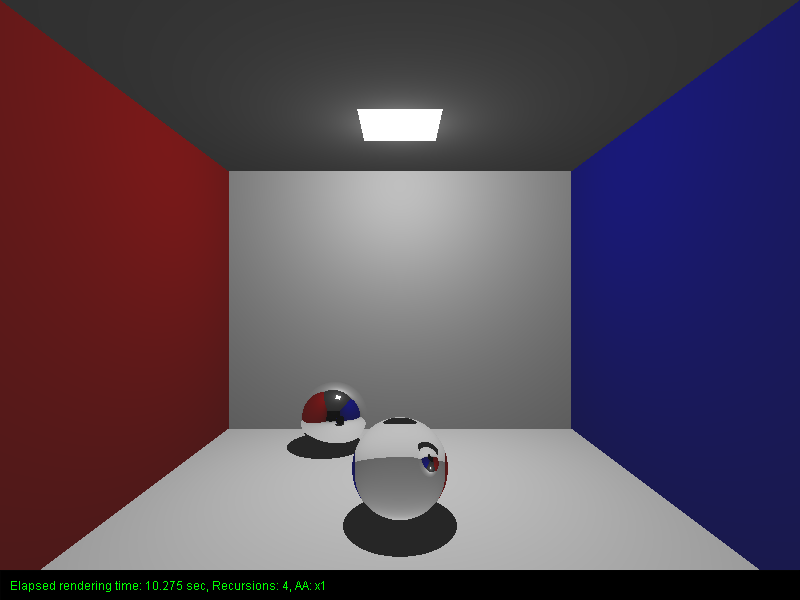
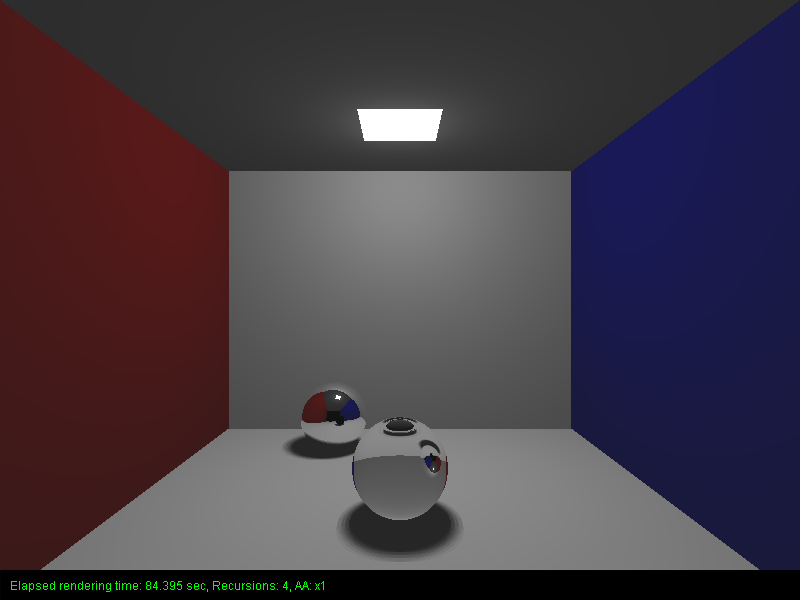
AreaLights + Soft Shadows 1.0

diff --git a/VCG_Raytracer/src/raytracer/Raytracer.java b/VCG_Raytracer/src/raytracer/Raytracer.java
@@ -103,7 +103,6 @@ public class Raytracer {
 
 	public RgbColor calculateColor(Intersection intersection) {
 		// Depending on the material calculate the pixel color
-		RgbColor calculatedColor = null;
 		RgbColor pixelColor = null;
 
 		if (intersection != null && intersection.isHit() && intersection.getShape() != null) {
@@ -117,23 +116,32 @@ public class Raytracer {
 				currentRecursion++;
 				pixelColor = calculateRefraction(intersection);
 			} else {
-				for (Light light : lightList) {
-					Ray lightRay = new Ray(intersection.getIntersectionPoint(), light.getPosition(), light.getPosition().sub(intersection.getIntersectionPoint()).normalize(), 0f);
-					if (!inShadow(lightRay, intersection.getShape(), light)) {
-						calculatedColor = (calculatedColor == null)
-								? shapeMaterial.getColor(light, intersection)
-								: calculatedColor.add(shapeMaterial.getColor(light, intersection));
-					} else {
-						return shapeMaterial.getAmbient();
-					}
-				}
-				RgbColor pixelColorAmbient = shapeMaterial.getAmbient();
-				pixelColor = (calculatedColor != null)
-						? pixelColorAmbient.add(calculatedColor)
-						: pixelColorAmbient;
+				pixelColor = calculateColorAndShadow(intersection);
 			}
 		}
 		currentRecursion = 0;
+		return pixelColor;
+	}
+
+	public RgbColor calculateColorAndShadow(Intersection _intersection) {
+		RgbColor pixelColor;
+		RgbColor calculatedColor = null;
+		Material shapeMaterial = _intersection.getShape().getMaterial();
+
+		for (Light light : lightList) {
+			Ray lightRay = new Ray(_intersection.getIntersectionPoint(), light.getPosition(), light.getPosition().sub(_intersection.getIntersectionPoint()).normalize(), 0f);
+			if (!inShadow(lightRay, light)) {
+				calculatedColor = (calculatedColor == null)
+						? shapeMaterial.getColor(light, _intersection)
+						: calculatedColor.add(shapeMaterial.getColor(light, _intersection));
+			}
+		}
+
+		RgbColor pixelColorAmbient = shapeMaterial.getAmbient();
+		pixelColor = (calculatedColor != null)
+				? pixelColorAmbient.add(calculatedColor)
+				: pixelColorAmbient;
+
 		return pixelColor;
 	}
 
@@ -204,11 +212,8 @@ public class Raytracer {
 
 	public boolean inShadow(Ray lightRay, Shape self, Light light) {
 		float distance = lightRay.getStartPoint().sub(light.getPosition()).length();
-		Intersection intersection = getNearest(lightRay, self, distance);
-		if (intersection != null && intersection.isHit()) {
-			return true;
-		}
-		return false;
+		Intersection intersection = getNearest(lightRay,distance);
+		return intersection != null && intersection.isHit();
 	}
 
 	public RgbColor calculateRefraction(Intersection _intersection) {

diff --git a/VCG_Raytracer/src/Main.java b/VCG_Raytracer/src/Main.java
@@ -118,23 +118,23 @@ public class Main {
 
     /** REFRACTIVE MATERIALS **/
     static Phong water = new Phong(AMBIENT_LIGHT,
-            new RgbColor(0,0,0.25f),
-            new RgbColor(0,0,0.25f),
-            new RgbColor(0,0,0.25f),
+            new RgbColor(0.1f, 0.1f, 0.1f),
+            new RgbColor(0.5f, 0.5f, 0.5f),
+            new RgbColor(1f, 1f, 1f),
             50,
             1f,
             1.3f);
     static Phong glass = new Phong(AMBIENT_LIGHT,
-            new RgbColor(0.75f,0,0),
-            new RgbColor(0.75f,0,0),
-            new RgbColor(0.8f,0.8f,0.8f),
+            new RgbColor(0.1f, 0.1f, 0.1f),
+            new RgbColor(0.5f, 0.5f, 0.5f),
+            new RgbColor(1f, 1f, 1f),
             50,
             1f,
             1.5f);
     static Phong diamond = new Phong(AMBIENT_LIGHT,
-            new RgbColor(0.75f,0,0),
-            new RgbColor(0.75f,0,0),
-            new RgbColor(0.8f,0.8f,0.8f),
+            new RgbColor(0.1f, 0.1f, 0.1f),
+            new RgbColor(0.5f, 0.5f, 0.5f),
+            new RgbColor(1f, 1f, 1f),
             1f,
             1f,
             1.8f);
@@ -170,8 +170,8 @@ public class Main {
     }
 
     private static void setupLights(Scene renderScene) {
-        renderScene.createPointLight(new Vec3 (0, 4.0f, -6),
-                RgbColor.LIGHT_GRAY);
+        // renderScene.createPointLight(new Vec3 (0, 4.0f, -6), RgbColor.LIGHT_GRAY);
+        renderScene.createAreaLight(new Vec3 (0, 4.0f, -6), new RgbColor(0.5f, 0.5f, 0.5f), 2f, 4);
     }
 
     private static void setupCameras(Scene renderScene) {
@@ -181,7 +181,6 @@ public class Main {
     private static void setupObjects(Scene renderScene) {
         renderScene.createSphere(new Vec3(-2, -3.5f, -8), 1f, phongGrayReflective);
         renderScene.createSphere(new Vec3(0, -3.5f, -4), 1f, glass);
-
     }
 
     private static void setupCornellBox(Scene renderScene) {

diff --git a/VCG_Raytracer/src/scene/light/AreaLight.java b/VCG_Raytracer/src/scene/light/AreaLight.java
@@ -1,0 +1,49 @@
+package scene.light;
+
+import utils.RgbColor;
+import utils.algebra.Vec3;
+
+import java.util.ArrayList;
+
+/**
+ * Adds a n*n area light to the scene
+ * **/
+public class AreaLight extends Light {
+
+	protected float mSize;
+	protected int mLightMultiples;
+	private ArrayList<Light> lights = new ArrayList<>();
+
+	/** Contructor **/
+	public AreaLight(Vec3 _position, RgbColor _color, float _size, int _lightMultiples) {
+		super(_position, _color);
+		mColor = _color.divideRGB(_lightMultiples*_lightMultiples);
+		System.out.println(_color);
+		System.out.println(mColor);
+		this.mSize = _size;
+		this.mLightMultiples = _lightMultiples;
+		createAreaLight();
+	}
+
+	private void createAreaLight() {
+		float off = mSize / mLightMultiples;
+		float offset = off / 2;
+		float x = mPosition.x - mSize/2 - offset;
+		for(int i = 0; i < mLightMultiples; i++) {
+			x += off;
+			float z = mPosition.z - mSize/2 - offset;
+			for(int j = 0; j < mLightMultiples; j++) {
+				z += off;
+				lights.add(new PointLight(calculatePosition(mPosition, x, z), mColor));
+			}
+		}
+	}
+
+	private Vec3 calculatePosition(Vec3 _position, float x, float z) {
+		return new Vec3(x, _position.y, z);
+	}
+
+	public ArrayList<Light> getAreaLight() {
+		return lights;
+	}
+}

diff --git a/VCG_Raytracer/src/scene/Scene.java b/VCG_Raytracer/src/scene/Scene.java
@@ -1,5 +1,6 @@
 package scene;
 
+import scene.light.AreaLight;
 import scene.light.Light;
 import scene.light.PointLight;
 import scene.material.Material;
@@ -50,6 +51,11 @@ public class Scene {
     public void createPointLight(Vec3 _position, RgbColor _intensity){
         PointLight pointlight = new PointLight(_position, _intensity);
         lights.add(pointlight);
+    }
+
+    public void createAreaLight(Vec3 _position, RgbColor _color, float _size, int _lightMultiples){
+        AreaLight arealight = new AreaLight(_position, _color, _size, _lightMultiples);
+        lights.addAll(arealight.getAreaLight());
     }
 
 }

diff --git a/VCG_Raytracer/src/utils/RgbColor.java b/VCG_Raytracer/src/utils/RgbColor.java
@@ -68,6 +68,12 @@ public class RgbColor {
                              colors.z * color.blue() );
     }
 
+    public RgbColor divideRGB(int value){
+        return new RgbColor( colors.x  / value,
+                colors.y / value,
+                             colors.z / value);
+    }
+
     public RgbColor multScalar(float value){
         return new RgbColor( colors.multScalar(value) );
     }
